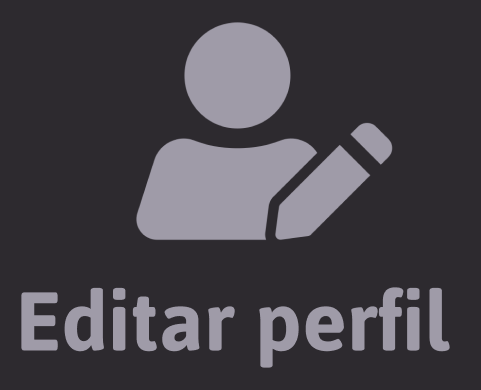
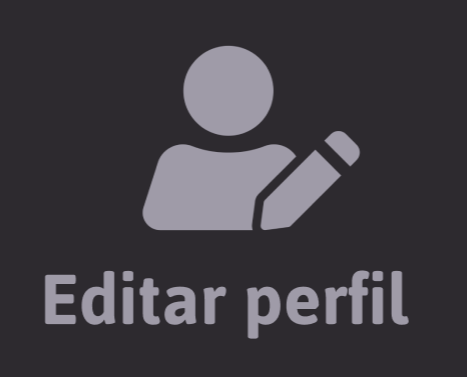
alterações no MainPage

Changed region(s): [[0.03, 0.7003, 0.9593, 0.9629], [0.2698, 0.0584, 0.8394, 0.6127]]

diff --git a/T22/View/Register.jsx b/T22/View/Register.jsx
@@ -6,7 +6,8 @@ import {
   Image,
   Dimensions,
   TouchableOpacity,
-  TextInput, // Importando TextInput do react-native
+  TextInput,
+  ScrollView, 
 } from "react-native";
 import Logo from "../Image/Logo.png";
 import Icon from "../Image/Icon.png";
@@ -19,100 +20,70 @@ export default function Register() {
 
   return (
     <View style={styles.container}>
-      <ScrollView> 
-          <View style={{ marginTop: "2%" }}/>
+      <ScrollView contentContainerStyle={styles.scrollView}> 
+            <Image source={Logo} style={styles.logo} />
+            
+            <View style={{ marginTop: "5%" }}/>
 
-          <Image source={Logo} style={styles.logo} />
+            <View style={styles.line} />
+          
+            <Text style={styles.BigText}>Registrar</Text>
 
-          <View style={{ marginTop: "2%" }}/>
+            <Image source={Icon} style={styles.icon} />
 
-          <View style={styles.line} />
-
-          <Text style={styles.BigText}>Registar</Text>
-
-          <View style={{ marginTop: "5%" }}/>
-
-          <Image source={Icon} style={styles.icon} />
-
-          <View style={{ marginTop: "5%" }}/>
-
-
-          <View style={styles.textBoxContainer}>
-              <Text style={styles.TextBox}>Email</Text>
-              <Text style={styles.TextBox}>Nome</Text>
-              <Text style={styles.TextBox}>Palavra-passe</Text>
-              <Text style={styles.TextBox}>Confirmar palavra-passe</Text>
-          </View>
-
-          <TouchableOpacity>
-            <View style={styles.textBoxLogin}>
-              <Text style={styles.BTNpurple}>Registar Conta</Text>
+            <View style={styles.textBoxContainer}>
+              <TextInput
+                style={styles.TextBox}
+                onChangeText={(text) => setEmail(text)}
+                value={email}
+                placeholder="Email"
+                placeholderTextColor="#9F9BA8"
+              />
+              <TextInput
+                style={styles.TextBox}
+                onChangeText={(text) => setNome(text)}
+                value={nome}
+                placeholder="Nome"
+                placeholderTextColor="#9F9BA8"
+              />
+              <TextInput
+                style={styles.TextBox}
+                onChangeText={(text) => setSenha(text)}
+                value={senha}
+                placeholder="Palavra-passe"
+                placeholderTextColor="#9F9BA8"
+                secureTextEntry={true} // Para ocultar a senha
+              />
+              <TextInput
+                style={styles.TextBox}
+                onChangeText={(text) => setNsenha(text)}
+                value={nsenha}
+                placeholder="Palavra-passe"
+                placeholderTextColor="#9F9BA8"
+                secureTextEntry={true} // Para ocultar a senha
+              />
             </View>
-          </TouchableOpacity>
-
-          <TouchableOpacity>
-            <View style={styles.textBoxLogin}>
-              <Text style={[styles.textPurple, { paddingTop: "5%" }]}>Já tem uma conta?</Text>
-            </View>
-          </TouchableOpacity>
-
+            <TouchableOpacity>
+              <View style={styles.textBoxLogin}>
+                <Text style={styles.BTNpurple}>Registrar Conta</Text>
+              </View>
+            </TouchableOpacity>
+            <TouchableOpacity>
+              <View style={styles.textBoxLogin}>
+                <Text style={[styles.textPurple, { paddingTop: "5%" }]}>
+                  Já tem uma conta?
+                </Text>
+              </View>
+            </TouchableOpacity>
       </ScrollView>
-
-      <Image source={Logo} style={styles.logo} />
-      <View style={styles.line} />
-      <View>
-        <Text style={styles.BigText}>Registrar</Text>
-        <Image source={Icon} style={styles.icon} />
-        <View style={styles.textBoxContainer}>
-          <TextInput
-            style={styles.TextBox}
-            onChangeText={(text) => setEmail(text)}
-            value={email}
-            placeholder="Email"
-            placeholderTextColor="#9F9BA8"
-          />
-          <TextInput
-            style={styles.TextBox}
-            onChangeText={(text) => setNome(text)}
-            value={nome}
-            placeholder="Nome"
-            placeholderTextColor="#9F9BA8"
-          />
-          <TextInput
-            style={styles.TextBox}
-            onChangeText={(text) => setSenha(text)}
-            value={senha}
-            placeholder="Palavra-passe"
-            placeholderTextColor="#9F9BA8"
-            secureTextEntry={true} // Para ocultar a senha
-          />
-          <TextInput
-            style={styles.TextBox}
-            onChangeText={(text) => setNsenha(text)}
-            value={nsenha}
-            placeholder="Palavra-passe"
-            placeholderTextColor="#9F9BA8"
-            secureTextEntry={true} // Para ocultar a senha
-          />
-        </View>
-        <TouchableOpacity>
-          <View style={styles.textBoxLogin}>
-            <Text style={styles.BTNpurple}>Registrar Conta</Text>
-          </View>
-        </TouchableOpacity>
-        <TouchableOpacity>
-          <View style={styles.textBoxLogin}>
-            <Text style={[styles.textPurple, { paddingTop: "5%" }]}>
-              Já tem uma conta?
-            </Text>
-          </View>
-        </TouchableOpacity>
-      </View>
     </View>
   );
 }
 
 const styles = StyleSheet.create({
+  scrollView: {
+    paddingTop: '5%', 
+  },
   container: {
     width: "100%",
     flex: 1,
@@ -177,14 +148,12 @@ const styles = StyleSheet.create({
   logo: {
     width: "50%",
     height: "10%",
-    paddingBottom: "5%",
-    marginTop: "5%",
     marginLeft: "24%",
   },
   icon: {
-    width: "30%",
+    width: "40%",
     height: "25%",
-    marginLeft: "35%",
+    marginLeft: "32%",
     marginTop: "4%",
   },
 });

diff --git a/T22/View/MainPage.jsx b/T22/View/MainPage.jsx
@@ -1,3 +1,4 @@
+import React from "react";
 import { StatusBar } from "expo-status-bar";
 import {
   StyleSheet,
@@ -6,26 +7,44 @@ import {
   Image,
   TouchableOpacity,
   ScrollView,
-  TextInput,
-  inputValue,
 } from "react-native";
 
-import EditarPerfil from '../Image/EditarPerfil.png'
-import LogOut from '../Image/LogOut.png'
+import EditarPerfil from "../Image/EditarPerfil.png";
+import LogOut from "../Image/LogOut.png";
 
 export default function MainPage() {
+  const handleLogout = () => {
+    alert("Logout button pressed!");
+  };
+
+  const handleEditar = () => {
+    alert("Editar button pressed!");
+  };
+
   return (
     <View style={styles.container}>
-        
-      <ScrollView contentContainerStyle={styles.scrollView}> 
+      <ScrollView contentContainerStyle={styles.scrollView}>
+        <View style={styles.imageContainer}>
+          <TouchableOpacity onPress={handleLogout} style={{paddingLeft:'5%'}}>
+            <Image source={LogOut} style={styles.logo} />
+          </TouchableOpacity>
+          <TouchableOpacity onPress={handleLogout}>
+            <Image source={EditarPerfil} style={styles.logo2} />
+          </TouchableOpacity>
+        </View>
 
-            <View style={{ marginTop: "5%" }}/>
+        <View style={{ marginTop: "10%" }} />
 
-            <View style={styles.imageContainer}>
-            <Image source={LogOut} style={styles.logo}/>
-            <Image source={EditarPerfil} style={styles.logo2}/>
-            </View>
-            
+        <View>
+          <Text style={styles.BigText}>Bem Vindo,</Text>
+        </View>
+        <View>
+          <Text style={styles.BigTextP}>Lebron</Text>
+        </View>
+
+        <View style={{ marginTop: "10%" }} />
+
+        <View style={styles.container2}></View>
       </ScrollView>
     </View>
   );
@@ -33,9 +52,9 @@ export default function MainPage() {
 
 const styles = StyleSheet.create({
   scrollView: {
-    paddingTop: '10%', 
+    paddingTop: "10%",
   },
-  
+
   container: {
     width: "100%",
     flex: 1,
@@ -43,17 +62,31 @@ const styles = StyleSheet.create({
   },
 
   imageContainer: {
-    flexDirection: 'row',
-    justifyContent: 'space-between',
-    paddingHorizontal: '5%',
-    width: '100%',
+    flexDirection: "row",
+    justifyContent: "space-between", 
+    paddingHorizontal: "10%",
+    width: "100%",
   },
   logo: {
-    width: '20%',
-    aspectRatio: 1,
-  }, 
+    width: 50,
+    height: 60,
+  },
+
   logo2: {
-    width: '30%',
-    aspectRatio: 1,
-  }, 
+    width: 65,
+    height: 65,
+  },
+
+  BigText: {
+    color: "white",
+    fontSize: 35,
+    fontWeight: "bold",
+    textAlign: "center",
+  },
+  BigTextP: {
+    color: "#6D4EE5",
+    fontSize: 35,
+    fontWeight: "bold",
+    textAlign: "center",
+  },
 });

diff --git a/T22/App.jsx b/T22/App.jsx
@@ -21,7 +21,7 @@ import EditarTipoViatura from './View/AdminEditarTipoViatura';
 export default function App() {
   return (
     <View style={styles.container}>
-        <Register/>
+       <MainPage/>
       <StatusBar style="auto" />
     </View>
   );
